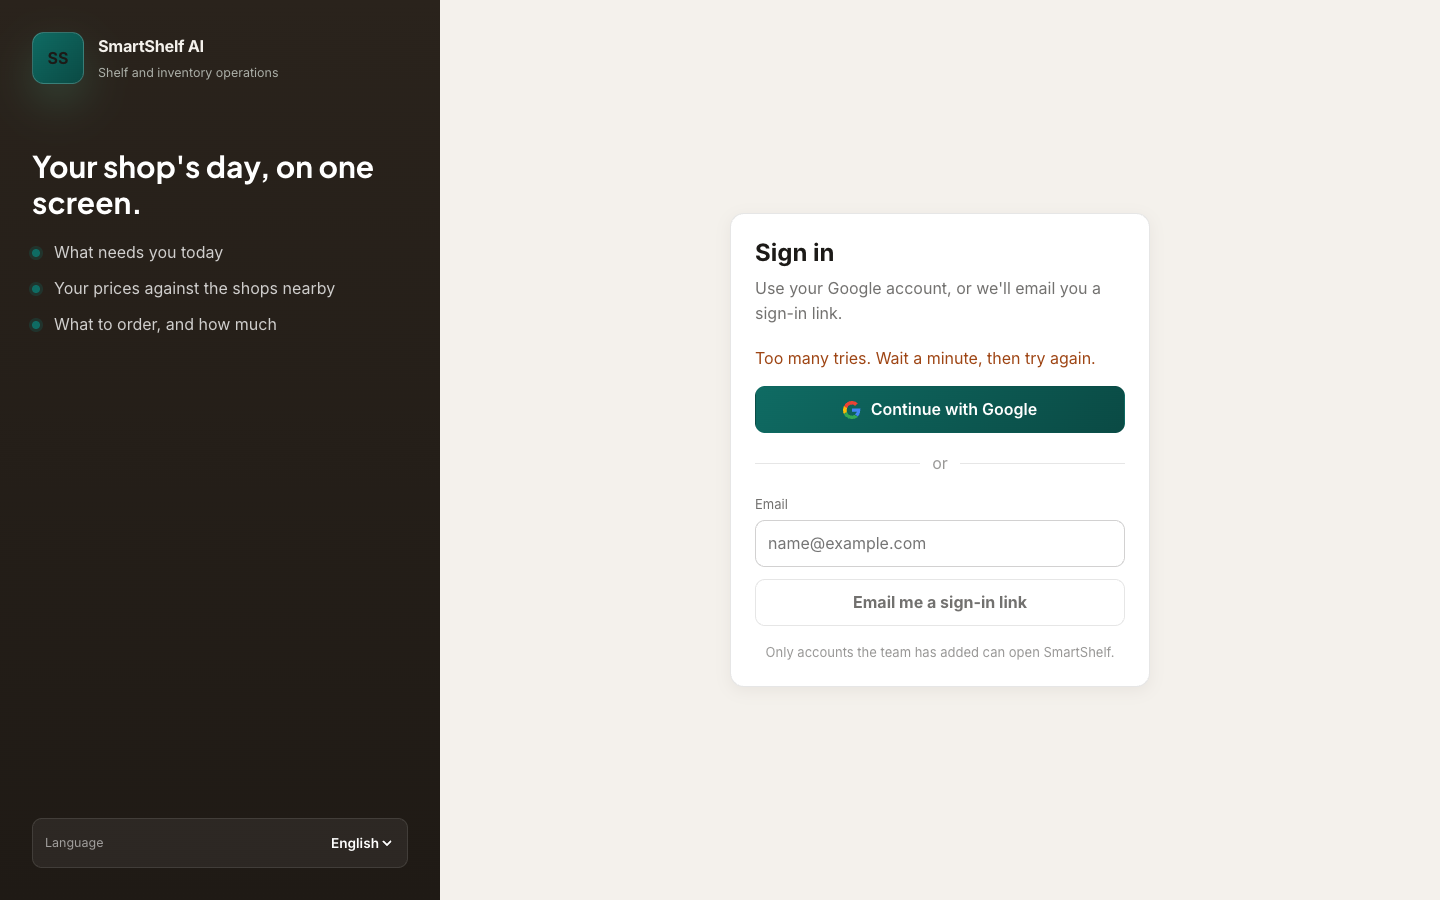
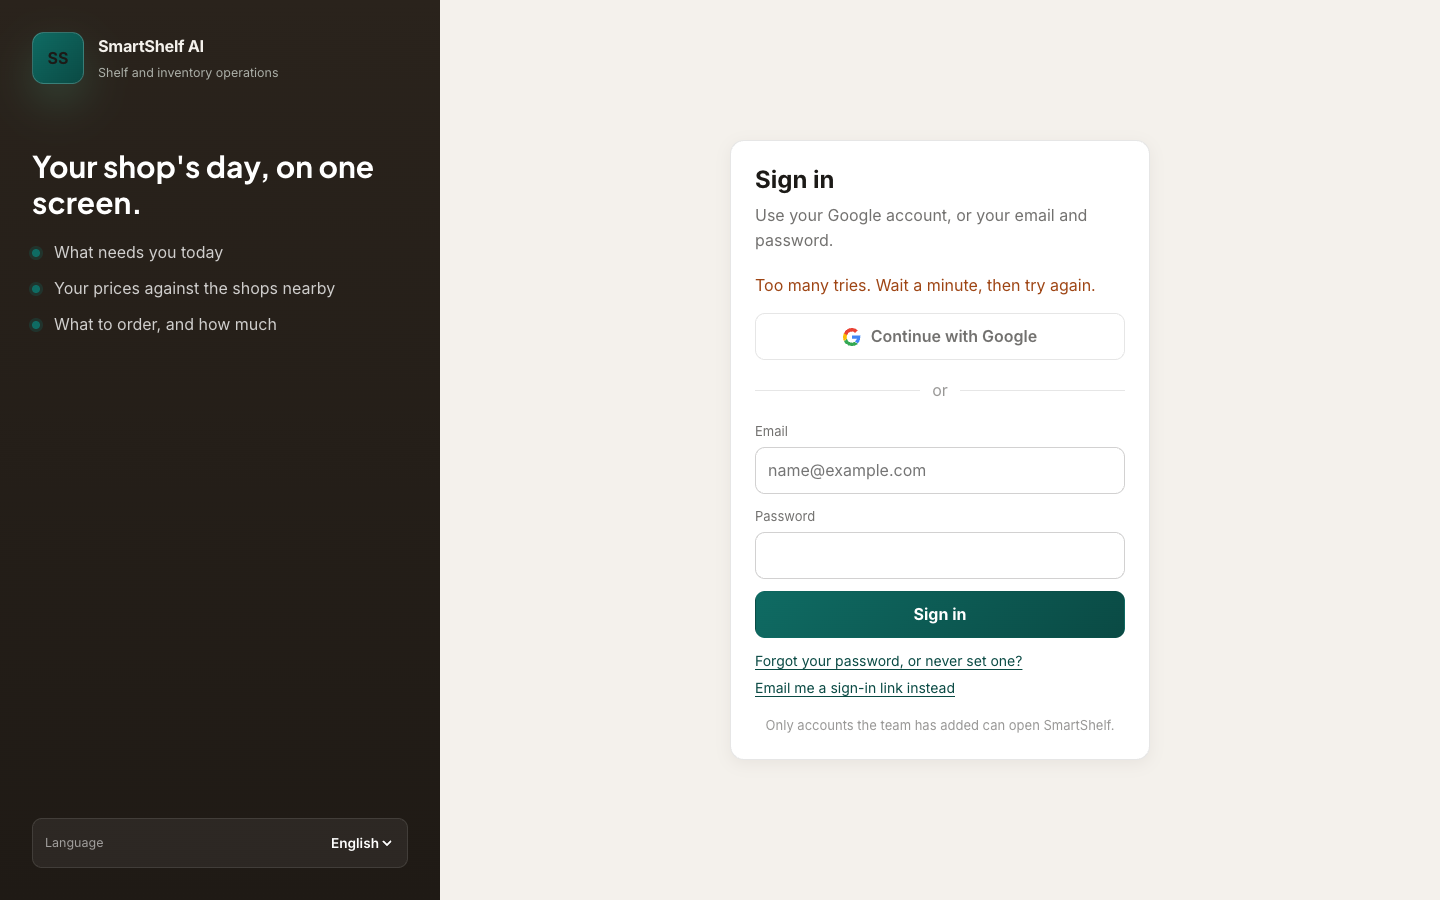
The sign-in review: email and password, the new screens and the console step

Changed region(s): [[0.5, 0.1867, 0.7812, 0.5289], [0.5, 0.56, 0.8125, 0.8089]]

diff --git a/docs/reviews/sign-in-2026-10-03.md b/docs/reviews/sign-in-2026-10-03.md
@@ -19,11 +19,13 @@ English, Hebrew and Arabic, at desktop and phone size.
 | | Before | After |
 |---|---|---|
 | **Layout** | The app's frame with its nav taken out: an empty dark sidebar, and a card floating on an empty page | A welcome screen. The brand side carries what SmartShelf does, in one headline and three points, with the language switch. The sign-in card sits beside it, and on a phone below it |
-| **Wording** | "To open SmartShelf, sign in with your Google account or your email." | "Use your Google account, or we'll email you a sign-in link." A line under the card: "Only accounts the team has added can open SmartShelf." |
-| **Options** | Google as a plain button, the email link as the main one | Google is the main button; the email link stays as the alternative |
+| **Wording** | "To open SmartShelf, sign in with your Google account or your email." | "Use your Google account, or your email and password." A line under the card: "Only accounts the team has added can open SmartShelf." |
+| **Options** | Google, or an email link every time on a new device | Google, **or email and password** (asked for on 2026-10-03: "on another device I need to type my email and sign in, not get a link again"). "Forgot your password, or never set one?" emails a link to set one, which is also how the first password is set. "Email me a sign-in link instead" stays as a fallback |
 | **Errors** | One sentence for every failure: "Sign-in didn't work. Try again." | The reason Firebase gives, in words (below). Anything else keeps the old sentence |
 
-How sign-in works is unchanged: Google or an email link, and the same roles (ADR-029).
+The roles are unchanged (ADR-029). A password belongs to the same account as Google or the email link, so it keeps its role.
+
+**One console step for the repository owner:** in Firebase, Authentication → Sign-in method → Email/Password must be **enabled** (the first switch, not only "Email link"). Until then, the page says password sign-in is not switched on.
 
 ## The error messages
 
@@ -35,6 +37,9 @@ How sign-in works is unchanged: Google or an email link, and the same roles (ADR
 | A mistyped address | "That doesn't look like an email address." |
 | No connection | "There's no internet connection. Try again when you're online." |
 | Too many tries | "Too many tries. Wait a minute, then try again." |
+| A wrong email or password | "The email or password is wrong." Firebase does not say which, so the page does not either |
+| No password typed | "Type your password, or use one of the options below." |
+| Password sign-in not switched on in Firebase | "Password sign-in isn't switched on yet. Use Google or the email link." |
 | Anything else | "Sign-in didn't work. Try again." |
 
 ## The screens
@@ -45,6 +50,8 @@ How sign-in works is unchanged: Google or an email link, and the same roles (ADR
 | Sign-in, phone | [en](sign-in-2026-10-03/signin-phone-en.png) · [he](sign-in-2026-10-03/signin-phone-he.png) · [ar](sign-in-2026-10-03/signin-phone-ar.png) |
 | Wrong address | [en](sign-in-2026-10-03/error-address-en.png) · [he](sign-in-2026-10-03/error-address-he.png) · [ar](sign-in-2026-10-03/error-address-ar.png) |
 | The other errors (English) | [pop-up](sign-in-2026-10-03/error-popup-en.png) · [old link](sign-in-2026-10-03/error-link-en.png) · [email](sign-in-2026-10-03/error-email-en.png) · [offline](sign-in-2026-10-03/error-offline-en.png) · [too many](sign-in-2026-10-03/error-toomany-en.png) · [anything else](sign-in-2026-10-03/error-general-en.png) |
+| Password errors (English) | [wrong password](sign-in-2026-10-03/error-password-en.png) · [switched off](sign-in-2026-10-03/error-passwordoff-en.png) |
+| After "Forgot your password" | [en](sign-in-2026-10-03/reset-sent-en.png) · [he](sign-in-2026-10-03/reset-sent-he.png) |
 | Link sent; account with no access | [link sent](sign-in-2026-10-03/link-sent-en.png) · [no access (ar)](sign-in-2026-10-03/no-access-ar.png) |
 
 ## What the repository owner is asked
